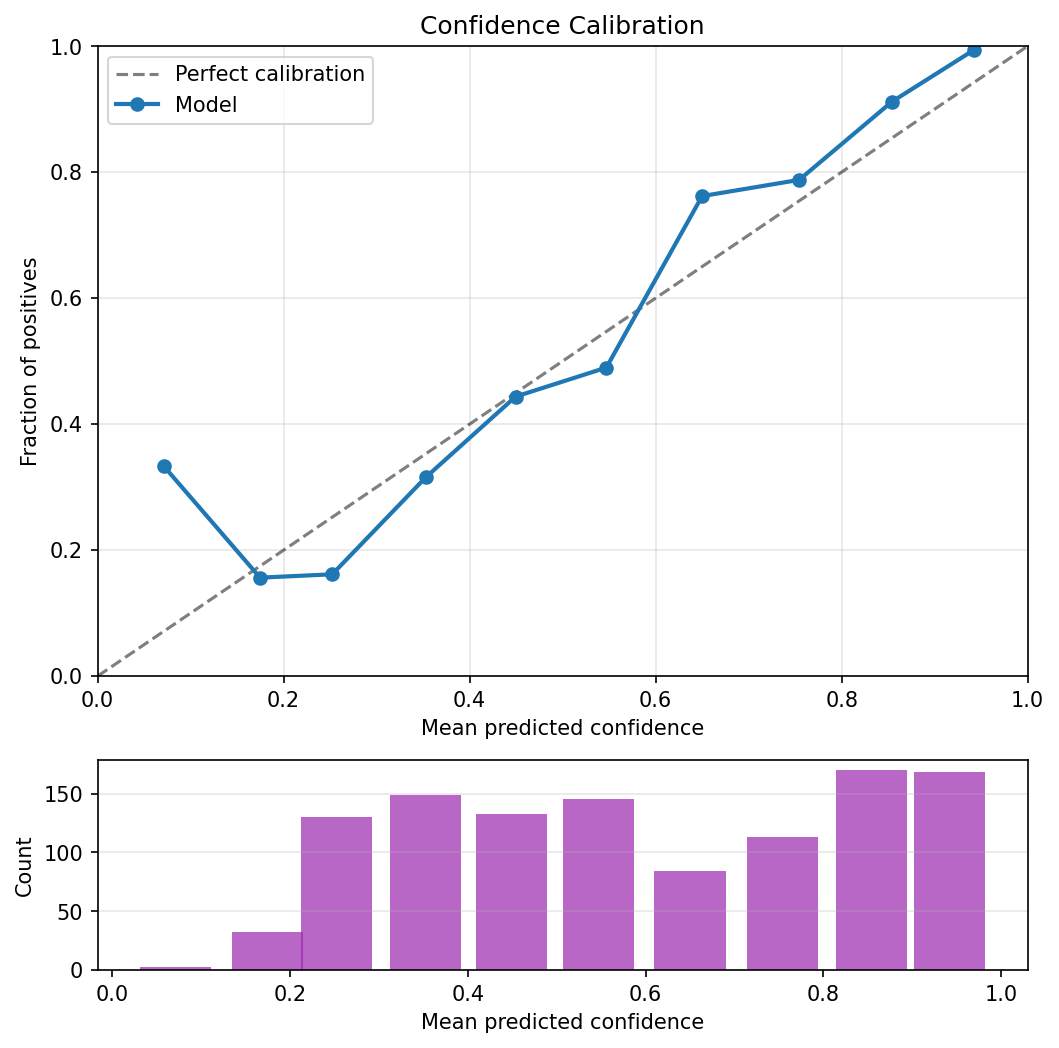
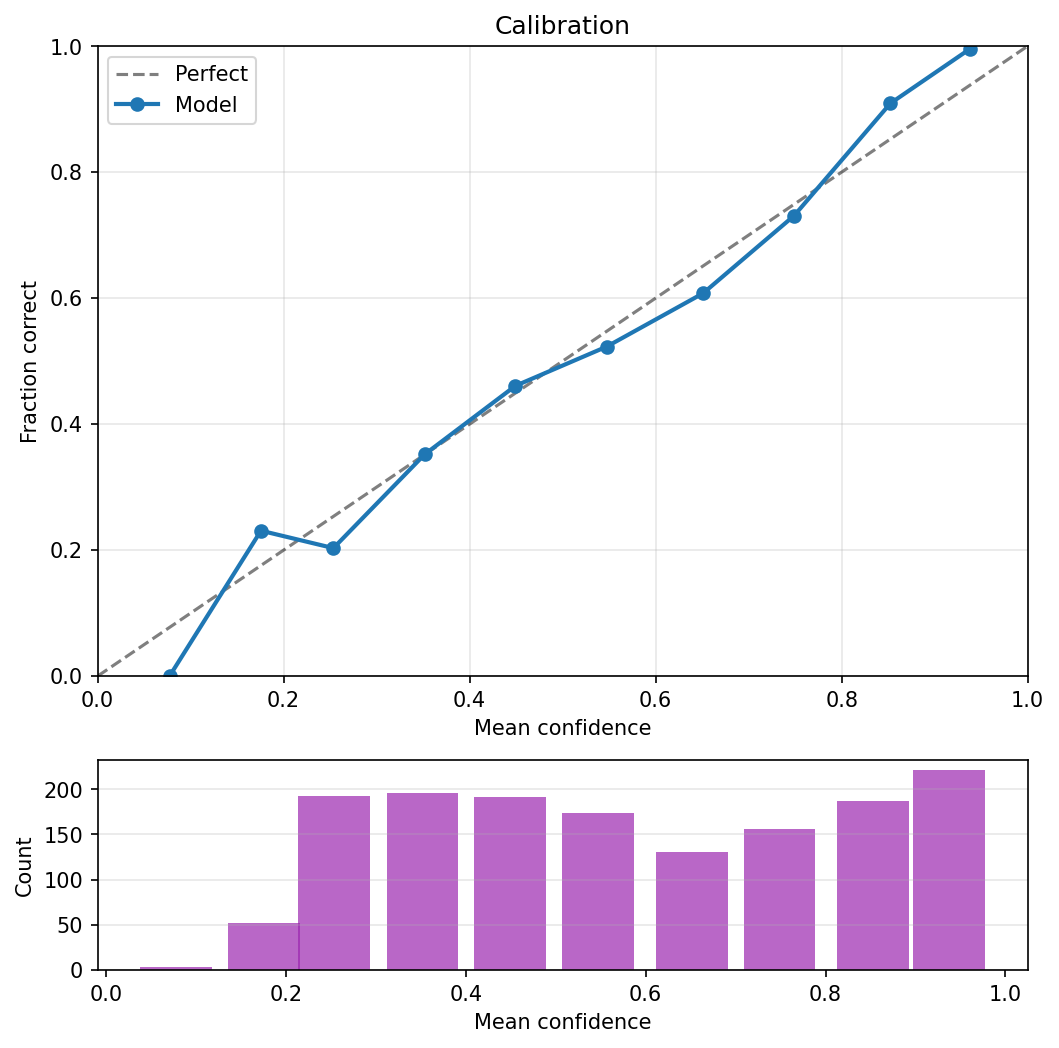
chore: regenerate reports and metrics from current dataset

diff --git a/scripts/evaluate_model.py b/scripts/evaluate_model.py
@@ -1,0 +1,70 @@
+"""Evaluate the current model and regenerate report artifacts.
+
+Loads the promoted model, runs predictions on the temporal validation split,
+and generates confusion matrix, top-K accuracy curve, calibration diagram,
+and per-class performance charts.
+
+Usage:
+    uv run python scripts/evaluate_model.py
+    uv run python scripts/evaluate_model.py --output-dir reports
+"""
+
+import logging
+from pathlib import Path
+
+import click
+
+logging.basicConfig(
+    level=logging.INFO,
+    format="%(asctime)s %(levelname)s %(name)s: %(message)s",
+    datefmt="%H:%M:%S",
+)
+logger = logging.getLogger(__name__)
+
+
+@click.command()
+@click.option("--data-path", default="data/sample.csv", help="Path to CSV data")
+@click.option("--model-dir", default="models", help="Path to model store")
+@click.option("--output-dir", default="reports", help="Output directory for reports")
+@click.option("--train-ratio", default=0.80, type=float, help="Temporal split ratio")
+def evaluate(data_path: str, model_dir: str, output_dir: str, train_ratio: float) -> None:
+    """Evaluate the promoted model and generate report artifacts."""
+    from transaction_classifier.core.artifacts.store import ModelStore
+    from transaction_classifier.core.data.loader import read_csv_data
+    from transaction_classifier.core.data.splitter import split_by_date
+    from transaction_classifier.core.features.engine import DomainFeatureEngine
+    from transaction_classifier.core.features.pipeline import assemble_feature_matrix
+    from transaction_classifier.evaluation.visualize import generate_all_reports
+
+    logger.info("Loading model from %s", model_dir)
+    store = ModelStore(model_dir)
+    bundle = store.load_active()
+
+    logger.info("Loading data from %s", data_path)
+    df = read_csv_data(data_path, target_length=6, min_class_samples=1)
+
+    _, val_df = split_by_date(df, train_ratio=train_ratio)
+    logger.info("Validation set: %d rows", len(val_df))
+
+    le = bundle.label_encoder
+    val_mask = val_df["target"].isin(le.classes_)
+    val_df = val_df[val_mask].copy()
+    y_true = le.transform(val_df["target"])
+
+    engine = DomainFeatureEngine("config/profiles/french_treasury.yaml")
+    X_val = assemble_feature_matrix(val_df, bundle.text_extractor, engine, fit=False)
+
+    proba = bundle.model.predict_proba(X_val)
+    y_pred = proba.argmax(axis=1)
+
+    class_names = list(le.classes_)
+    metrics = generate_all_reports(y_true, y_pred, proba, class_names, Path(output_dir))
+
+    logger.info("Accuracy: %.4f", metrics["accuracy"])
+    logger.info("Balanced accuracy: %.4f", metrics["balanced_accuracy"])
+    logger.info("Top-K accuracy: %s", metrics["top_k_accuracy"])
+    logger.info("Reports saved to %s", output_dir)
+
+
+if __name__ == "__main__":
+    evaluate()

diff --git a/README.md b/README.md
@@ -14,13 +14,13 @@ Trained on **synthetic data** (7,508 transactions, 80 account classes). On real 
 
 | Metric | Value |
 |---|---|
-| Top-1 accuracy | 60.2% |
-| Top-3 accuracy | 83.2% |
-| Top-5 accuracy | 91.1% |
-| Top-10 accuracy | 99.1% |
-| Balanced accuracy | 50.9% |
+| Top-1 accuracy | 58.7% |
+| Top-3 accuracy | 83.0% |
+| Top-5 accuracy | 90.9% |
+| Top-10 accuracy | 98.7% |
+| Balanced accuracy | 49.3% |
 | Classes | 80 |
-| Evaluation samples | 1,127 |
+| Evaluation samples | 1,502 |
 
 ### Feature Ablation
 
@@ -28,10 +28,10 @@ Cumulative accuracy on the temporal validation split. Each row adds one feature 
 
 | Feature set | Accuracy | Balanced Accuracy |
 |---|---|---|
-| TF-IDF only | 0.5679 | 0.4444 |
-| + numeric | 0.6140 | 0.5084 |
-| + date | 0.6043 | 0.5090 |
-| + domain (all features) | 0.6025 | 0.5087 |
+| TF-IDF only | 0.5546 | 0.4418 |
+| + numeric | 0.5905 | 0.5045 |
+| + date | 0.5792 | 0.4865 |
+| + domain (all features) | 0.5839 | 0.4881 |
 
 Date and domain features show marginal or negative lift on synthetic data because the generator produces uniformly distributed timestamps and simplified entity patterns. On real client data with seasonal patterns and consistent entity naming, these features provide meaningful signal.
 
